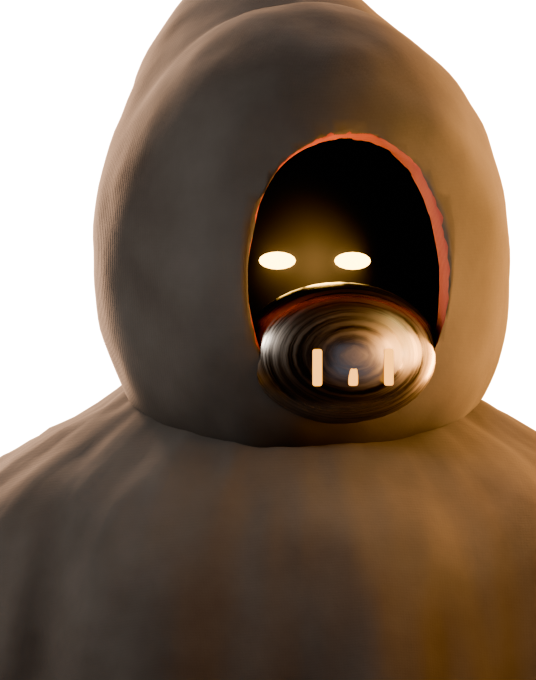
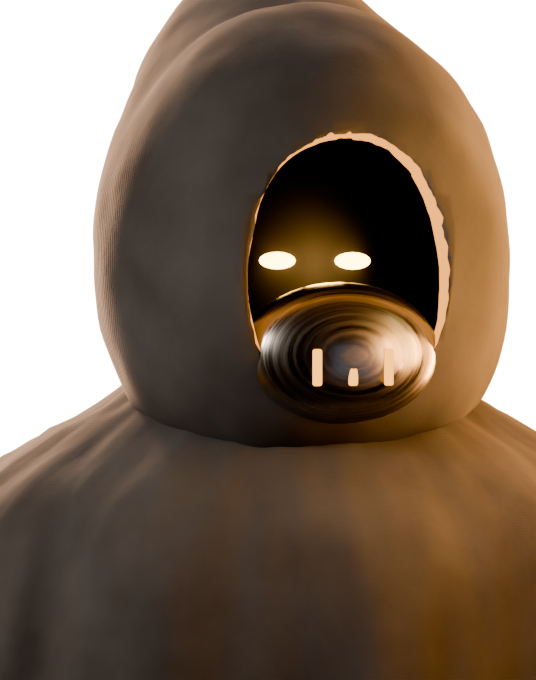
Origins: ability auras on screen, the portrait steels itself on use, a lightning crown for the Stormcaller and an ember-lit cowl for the Pyromancer
Claude-Session: https://claude.ai/code/session_01UCXrQTtTNjLpt6wpLNxne4

Changed region(s): [[0.4478, 0.1853, 0.8358, 0.525], [0.5075, 0.2162, 0.5672, 0.2471], [0.4776, 0.2779, 0.5075, 0.3088]]

diff --git a/tools/artkit/scripts/portraits_bl.py b/tools/artkit/scripts/portraits_bl.py
@@ -1316,7 +1316,7 @@ def b_pyro():
     loft("robehem", [(0.5, 0.31, 0.24), (0.7, 0.29, 0.22), (0.95, 0.262, 0.192)], m, fold=(0.05, 8, 4, 0.9))
     belt(1.02, sash, metal, rx=0.25, ry=0.175, h=0.05)
     tube("sashtail", [V(0.12, -0.18, 1.0), V(0.16, -0.21, 0.85), V(0.15, -0.22, 0.6)], 0.035, sash, flat=0.2, n=12)
-    hood(robe, r=(0.165, 0.18, 0.2), peak=0.12, trim=sash)
+    hood(robe, r=(0.165, 0.18, 0.2), peak=0.12, trim=glow("embertrim", (1.0, 0.38, 0.06), 4.0))
     ell("halfmask", C.eye_c + V(0, -0.095, -0.08), (0.085, 0.05, 0.06), metal, head=True)
     for k in range(3):
         rbox("vent", C.eye_c + V(-0.03 + 0.03 * k, -0.142, -0.09), (0.008, 0.004, 0.03), glow("vent", (1.0, 0.4, 0.05), 6.0), bev=0.002, head=True)
@@ -1370,6 +1370,18 @@ def b_storm():
     for x in (-0.06, 0.06):
         ribbon("trim", x, 0.012, 0.55, 1.46, silver, depth=0.004)
     eyes((0.75, 0.92, 1.0), 34)
+    # a crown of living lightning above the cowl
+    cm = glow("crown", (0.7, 0.9, 1.0), 25.0)
+    cc = C.eye_c + V(0, 0.07, 0.24)
+    for k in range(9):
+        a0 = k / 9 * 2 * math.pi
+        a1 = (k + 1) / 9 * 2 * math.pi
+        p0 = cc + V(math.cos(a0) * 0.16, math.sin(a0) * 0.16, 0.02 * math.sin(k * 2.1))
+        p1 = cc + V(math.cos(a1) * 0.16, math.sin(a1) * 0.16, 0.02 * math.sin((k + 1) * 2.1))
+        tube("crown", bolt_pts(p0, p1, 300 + k, jag=0.03, steps=3), 0.004, cm, n=6, sub=0, head=True)
+        if k % 3 == 0:
+            tube("crownspike", bolt_pts(p0, p0 + V(0, 0, 0.1), 400 + k, jag=0.02, steps=3), 0.0035, cm, n=6, sub=0, head=True)
+    C.anchor("spark", cc, (0.7, 0.9, 1.0), 0.5)
     # staff with a forked head crackling with lightning (screen left)
     w = arm("L", (-0.37, -0.03, 1.12), (-0.42, -0.12, 1.26), cloak, bell=0.05, cuff=silver)
     staff((-0.43, -0.14, 0.45), (-0.43, -0.14, 2.15), pbr("darkwood", (0.05, 0.05, 0.07), rough=0.4, fiber=0.3, coat=0.4), silver)

diff --git a/hud.go b/hud.go
@@ -66,6 +66,7 @@ func (g *Game) drawHUD(screen *ebiten.Image, L *Level) {
 	}
 	u := g.ui
 	r := g.run
+	g.drawAbilityAura(screen, L)
 	dt := u.DT
 	th := u.theme()
 	S := u.S
@@ -504,5 +505,34 @@ func (g *Game) drawBossIntro(screen *ebiten.Image, L *Level) {
 		if !hideHUD {
 			u.text(screen, "Click to skip", fSerif, 18, 1880, 1080-bh+(bh-30)/2, ca(cDim, 0.6*out), alignRight)
 		}
+	}
+}
+
+// drawAbilityAura tints the screen's edges while an active ability runs, so
+// you can feel it without looking at the HUD.
+func (g *Game) drawAbilityAura(screen *ebiten.Image, L *Level) {
+	u := g.ui
+	S := u.S
+	c := &L.cls
+	edge := func(col color.RGBA, a float64, bottomOnly bool) {
+		if a <= 0.01 {
+			return
+		}
+		drawSprite(screen, sprSoft, u.X(-300), u.Y(820), 2520*S, 560*S, ca(col, a), true)
+		if bottomOnly {
+			return
+		}
+		drawSprite(screen, sprSoft, u.X(-420), u.Y(-200), 640*S, 1480*S, ca(col, a*0.8), true)
+		drawSprite(screen, sprSoft, u.X(1700), u.Y(-200), 640*S, 1480*S, ca(col, a*0.8), true)
+	}
+	if c.bloodT > 0 {
+		p := 0.7 + 0.3*math.Sin(L.T*9)
+		edge(color.RGBA{255, 30, 30, 255}, 0.28*p*math.Min(1, c.bloodT), false)
+	}
+	if c.aegisT > 0 {
+		edge(color.RGBA{255, 210, 120, 255}, 0.3*math.Min(1, c.aegisT), true)
+	}
+	if c.overloadN > 0 {
+		edge(color.RGBA{255, 150, 50, 255}, 0.25, true)
 	}
 }

diff --git a/ability.go b/ability.go
@@ -59,6 +59,9 @@ func (L *Level) updateAbility(dt float64, in Input) {
 	if used {
 		r.AbilT = r.Arch.Cooldown
 		L.abilFlash = 1
+		if L == L.g.level {
+			L.g.react(reactCombo) // the portrait steels itself
+		}
 	}
 }
 
